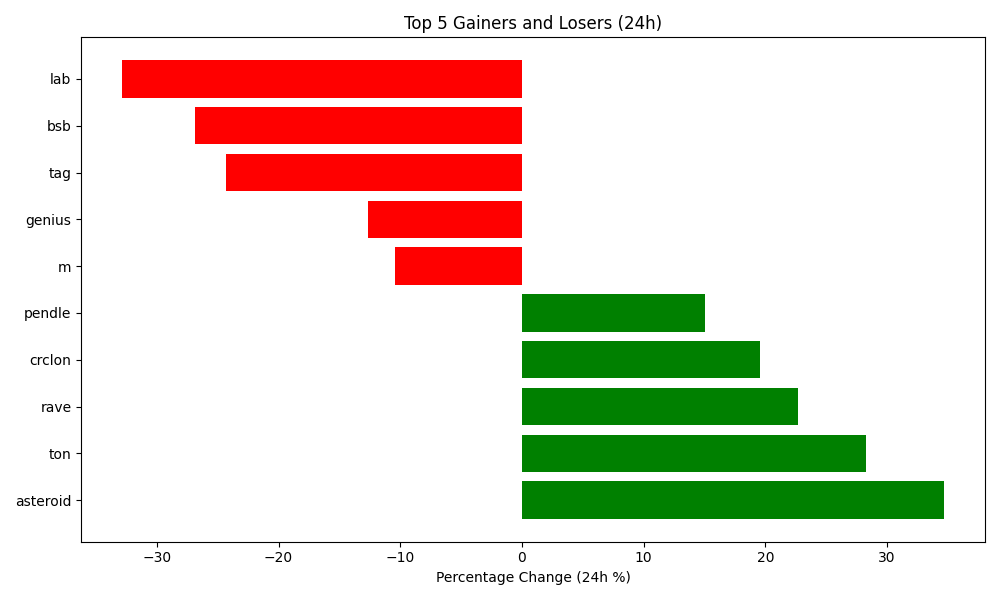
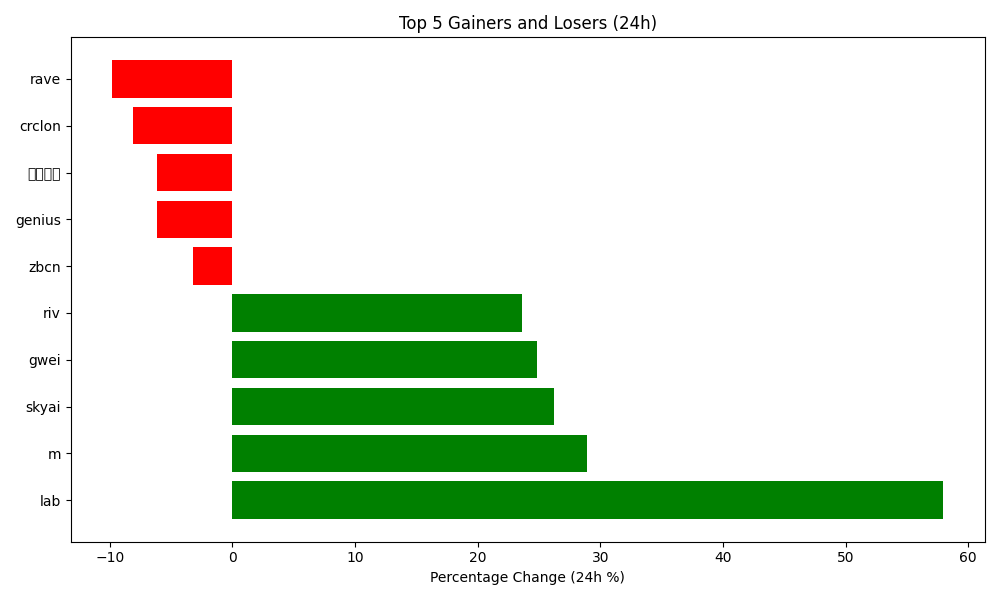
Auto-update crypto data and plot

diff --git a/README.md b/README.md
@@ -4,7 +4,7 @@ Author: Hitesh Agrawal
 This repository automatically tracks the top 5 gaining, top 5 losing, and top 5 highest volume cryptocurrencies in the last 24 hours using the CoinGecko API, Python, Matplotlib, and GitHub Actions updates the below content everyday at midnight.
 
 <!-- START_DYNAMIC_CONTENT -->
-Last updated: 2026-05-05 02:07 UTC
+Last updated: 2026-05-06 02:08 UTC
 
 ![Crypto Movers Plot](crypto_movers_plot.png)
 
@@ -12,33 +12,33 @@ Last updated: 2026-05-05 02:07 UTC
 
 | Rank | Coin | Price Change (24h %) | Volume (USD) | Current Price (USD) |
 | :--: | :--: | :------------------: | :----------: | :-----------------: |
-| 1 | asteroid | 34.68% | $38,633,985 | $0.0004 |
-| 2 | ton | 28.26% | $480,888,906 | $1.7500 |
-| 3 | rave | 22.66% | $98,654,211 | $0.7588 |
-| 4 | crclon | 19.58% | $13,329,573 | $125.1900 |
-| 5 | pendle | 15.06% | $172,435,209 | $1.8500 |
+| 1 | lab | 57.98% | $105,840,678 | $2.7200 |
+| 2 | m | 28.94% | $20,738,879 | $3.4600 |
+| 3 | skyai | 26.26% | $143,968,845 | $0.7899 |
+| 4 | gwei | 24.84% | $14,218,472 | $0.1354 |
+| 5 | riv | 23.62% | $1,940,382 | $0.0351 |
 
 
 **👇 Top 5 Losers (24h)**
 
 | Rank | Coin | Price Change (24h %) | Volume (USD) | Current Price (USD) |
 | :--: | :--: | :------------------: | :----------: | :-----------------: |
-| 1 | lab | -32.84% | $89,296,247 | $1.7100 |
-| 2 | bsb | -26.83% | $101,731,002 | $0.6190 |
-| 3 | tag | -24.34% | $80,926,324 | $0.0013 |
-| 4 | genius | -12.69% | $12,841,509 | $0.5474 |
-| 5 | m | -10.45% | $57,044,798 | $2.6800 |
+| 1 | rave | -9.81% | $56,780,885 | $0.6878 |
+| 2 | crclon | -8.14% | $1,087,257 | $115.0000 |
+| 3 | 币安人生 | -6.19% | $23,260,758 | $0.3691 |
+| 4 | genius | -6.18% | $13,725,138 | $0.5153 |
+| 5 | zbcn | -3.22% | $7,869,292 | $0.0033 |
 
 
 **💎 Top 5 by Trade Volume (24h)**
 
 | Rank | Coin | Price Change (24h %) | Volume (USD) | Current Price (USD) |
 | :--: | :--: | :------------------: | :----------: | :-----------------: |
-| 1 | usdt | 0.01% | $83,520,346,967 | $0.9998 |
-| 2 | btc | 0.86% | $47,999,765,809 | $80,471.0000 |
-| 3 | eth | 0.59% | $20,739,300,608 | $2,369.6600 |
-| 4 | usdc | 0.01% | $17,342,485,477 | $1.0000 |
-| 5 | sol | -0.59% | $4,112,675,283 | $84.5000 |
+| 1 | usdt | 0.01% | $69,950,652,688 | $0.9998 |
+| 2 | btc | 1.03% | $42,644,095,369 | $81,260.0000 |
+| 3 | eth | 0.05% | $16,819,060,327 | $2,369.1900 |
+| 4 | usdc | -0.02% | $15,894,764,309 | $0.9998 |
+| 5 | sol | 2.64% | $3,676,902,863 | $86.7000 |
 
 
 <!-- END_DYNAMIC_CONTENT -->
